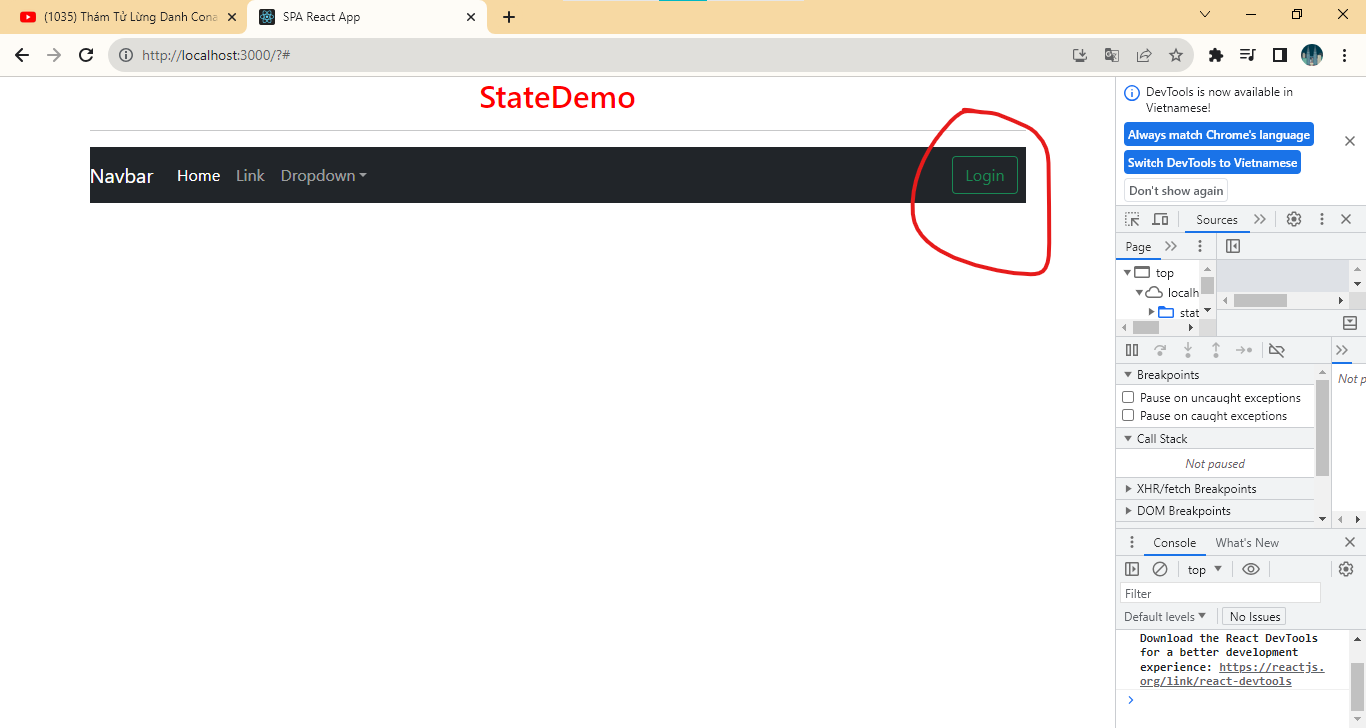
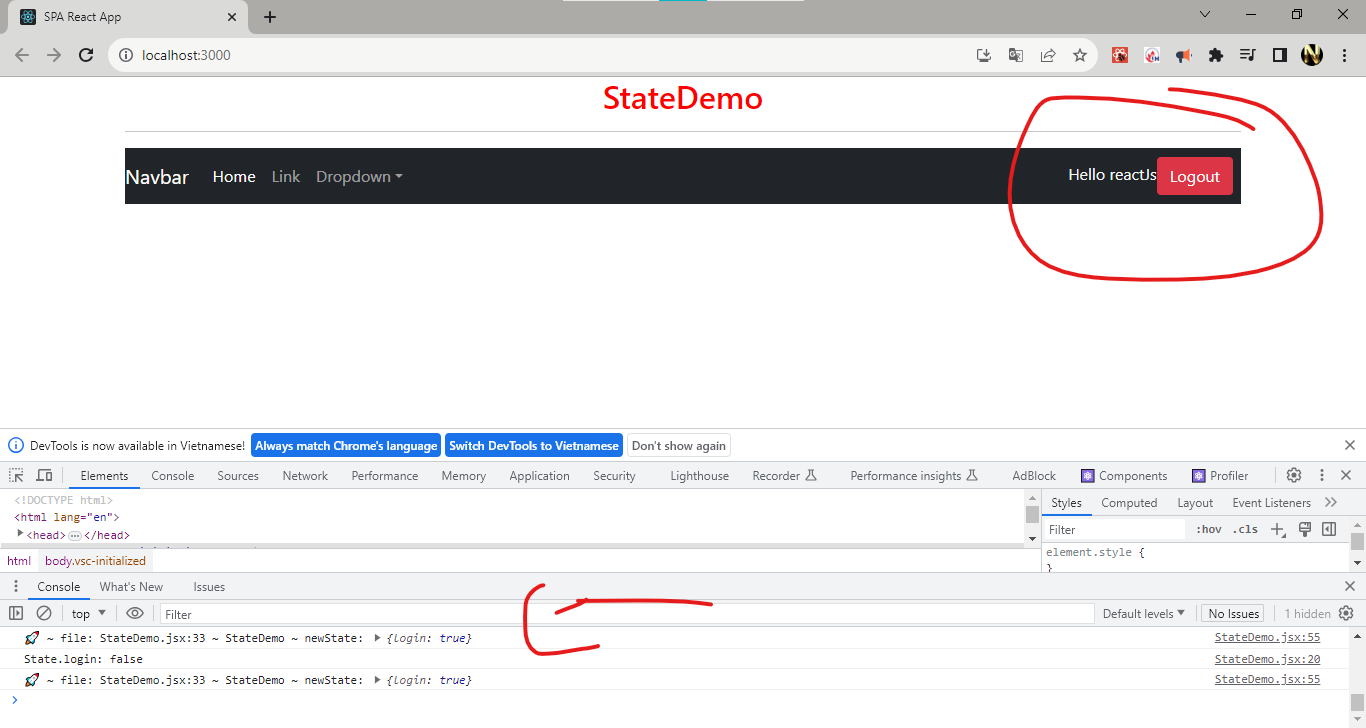
use State - async--await || fun để quản lý luồng chạy ở State

diff --git a/demo-reactjs-buoi2/src/StateDemo/StateDemo.jsx b/demo-reactjs-buoi2/src/StateDemo/StateDemo.jsx
@@ -1,76 +1,103 @@
 import React, { Component } from 'react'
 
 export default class StateDemo extends Component {
-// state : la thuoc tinh co san cua rcc chứa các giá trị thay đổi trên giao diện
-// khi state thay đổi giao dien sẽ tự (render)thay đổi
+    // state : la thuoc tinh co san cua rcc chứa các giá trị thay đổi trên giao diện
+    // khi state thay đổi giao dien sẽ tự (render)thay đổi
 
-    state={
-        login : false
+    state = {
+        login: false
     }
     // login = false;
 
 
     renderLogin = () => {
         if (this.state.login === true) {
-            return <div><span className='text-light'>Hello reactJs</span></div>
+            return <div><span className='text-light'>Hello reactJs</span>
+                <button type="button" className='btn btn-danger' onClick={() => {
+                    this.setState({
+                        login: false
+                    }, () => {
+                        console.log(`State.login: ${this.state.login}`)
+                     })
+                    // dung ham đề chắc chắn chạy xong setState mới tiêp tục chạy chương trình
+
+                    
+                }}>Logout</button>
+            </div>
         }
         return <div>
             <button type="button" className="btn btn-outline-success mr-2" onClick={() => {
                 // this.state.login = true;    ---- không dc thay đôi state truc tiếp ma phai thong qua phuong thuc setState()
                 // this.render();
-
-
-                let newState = {
-                    login: true
-                }
-                this.setState(newState)    ///            --- setState  là phương thức có sẵn của rcc
-                // setState() --- là phương thức bất đồng bộ acync wait
-
+                this.handleLogin();
             }} >Login</button>
+
         </div>
     }
 
-render() {
-    return (
-        <div className='container'>
-            <h2 className="text-red">StateDemo</h2>
-            <hr />
-            <nav className="navbar navbar-expand-sm navbar-dark bg-dark">
-                <a className="navbar-brand" href="#">Navbar</a>
-                <button className="navbar-toggler d-lg-none" type="button" data-bs-toggle="collapse" data-bs-target="#collapsibleNavId" aria-controls="collapsibleNavId" aria-expanded="false" aria-label="Toggle navigation" />
-                <div className="collapse navbar-collapse" id="collapsibleNavId">
-                    <ul className="navbar-nav me-auto mt-2 mt-lg-0">
-                        <li className="nav-item">
-                            <a className="nav-link active" href="#" aria-current="page">Home <span className="visually-hidden">(current)</span></a>
-                        </li>
-                        <li className="nav-item">
-                            <a className="nav-link" href="#">Link</a>
-                        </li>
-                        <li className="nav-item dropdown">
-                            <a className="nav-link dropdown-toggle" href="#" id="dropdownId" data-bs-toggle="dropdown" aria-haspopup="true" aria-expanded="false">Dropdown</a>
-                            <div className="dropdown-menu" aria-labelledby="dropdownId">
-                                <a className="dropdown-item" href="#">Action 1</a>
-                                <a className="dropdown-item" href="#">Action 2</a>
-                            </div>
-                        </li>
-                    </ul>
-                    <div className="d-flex my-2 my-lg-0 align-items-center m-2">
-                        {/* toan tu 3 ngoi  */}
-                        {/* {this.login === true ? <span className='text-light'>Hello reactJs</span> :  
+    handleLogin = () => {
+        // handleLogin = async () => {  // c1
+
+        let newState = {
+            login: true
+        }
+        // cach2 
+        this.setState(newState, () => {
+            //ham nay sẽ đợi sau kia setState xong mới thực hiện
+        })
+
+        // await this.setState(newState)   ///--- cach 1   acync wait dung để dừng đợi setState thanh công mới chạy tiếp
+
+        /*  
+        ///            --- setState  là phương thức có sẵn của rcc
+        // setState() --- là phương thức bất đồng bộ acync wait
+        */
+        console.log("🚀 ~ file: StateDemo.jsx:33 ~ StateDemo ~ newState:", newState)
+
+
+    }
+
+    render() {
+        return (
+            <div className='container'>
+                <h2 className="text-red">StateDemo</h2>
+                <hr />
+                <nav className="navbar navbar-expand-sm navbar-dark bg-dark">
+                    <a className="navbar-brand" href="#">Navbar</a>
+                    <button className="navbar-toggler d-lg-none" type="button" data-bs-toggle="collapse" data-bs-target="#collapsibleNavId" aria-controls="collapsibleNavId" aria-expanded="false" aria-label="Toggle navigation" />
+                    <div className="collapse navbar-collapse" id="collapsibleNavId">
+                        <ul className="navbar-nav me-auto mt-2 mt-lg-0">
+                            <li className="nav-item">
+                                <a className="nav-link active" href="#" aria-current="page">Home <span className="visually-hidden">(current)</span></a>
+                            </li>
+                            <li className="nav-item">
+                                <a className="nav-link" href="#">Link</a>
+                            </li>
+                            <li className="nav-item dropdown">
+                                <a className="nav-link dropdown-toggle" href="#" id="dropdownId" data-bs-toggle="dropdown" aria-haspopup="true" aria-expanded="false">Dropdown</a>
+                                <div className="dropdown-menu" aria-labelledby="dropdownId">
+                                    <a className="dropdown-item" href="#">Action 1</a>
+                                    <a className="dropdown-item" href="#">Action 2</a>
+                                </div>
+                            </li>
+                        </ul>
+                        <div className="d-flex my-2 my-lg-0 align-items-center m-2">
+                            {/* toan tu 3 ngoi  */}
+                            {/* {this.login === true ? <span className='text-light'>Hello reactJs</span> :  
                             <button type="button" className="btn btn-outline-success mr-2" onClick={() => {
                                 this.login = true
                             }}>Login</button>} */}
 
-                        {this.renderLogin()}
+                            {this.renderLogin()}
 
 
 
 
+                        </div>
                     </div>
-                </div>
-            </nav>
+                </nav>
 
-        </div>
-    )
-}
+            </div>
+        )
+    }
 }
